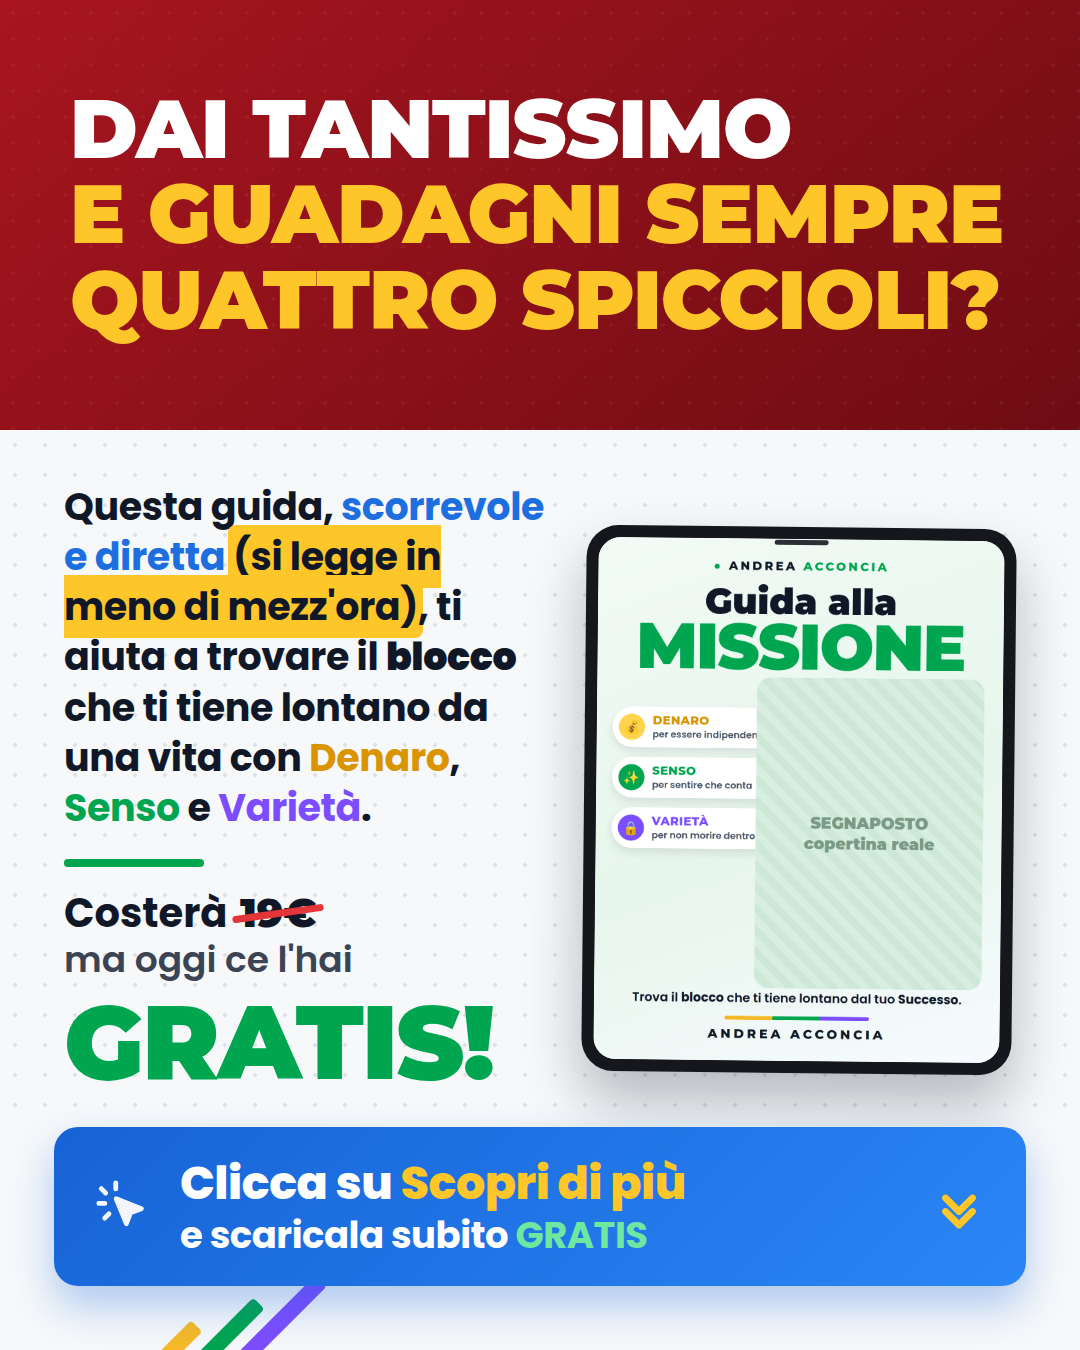
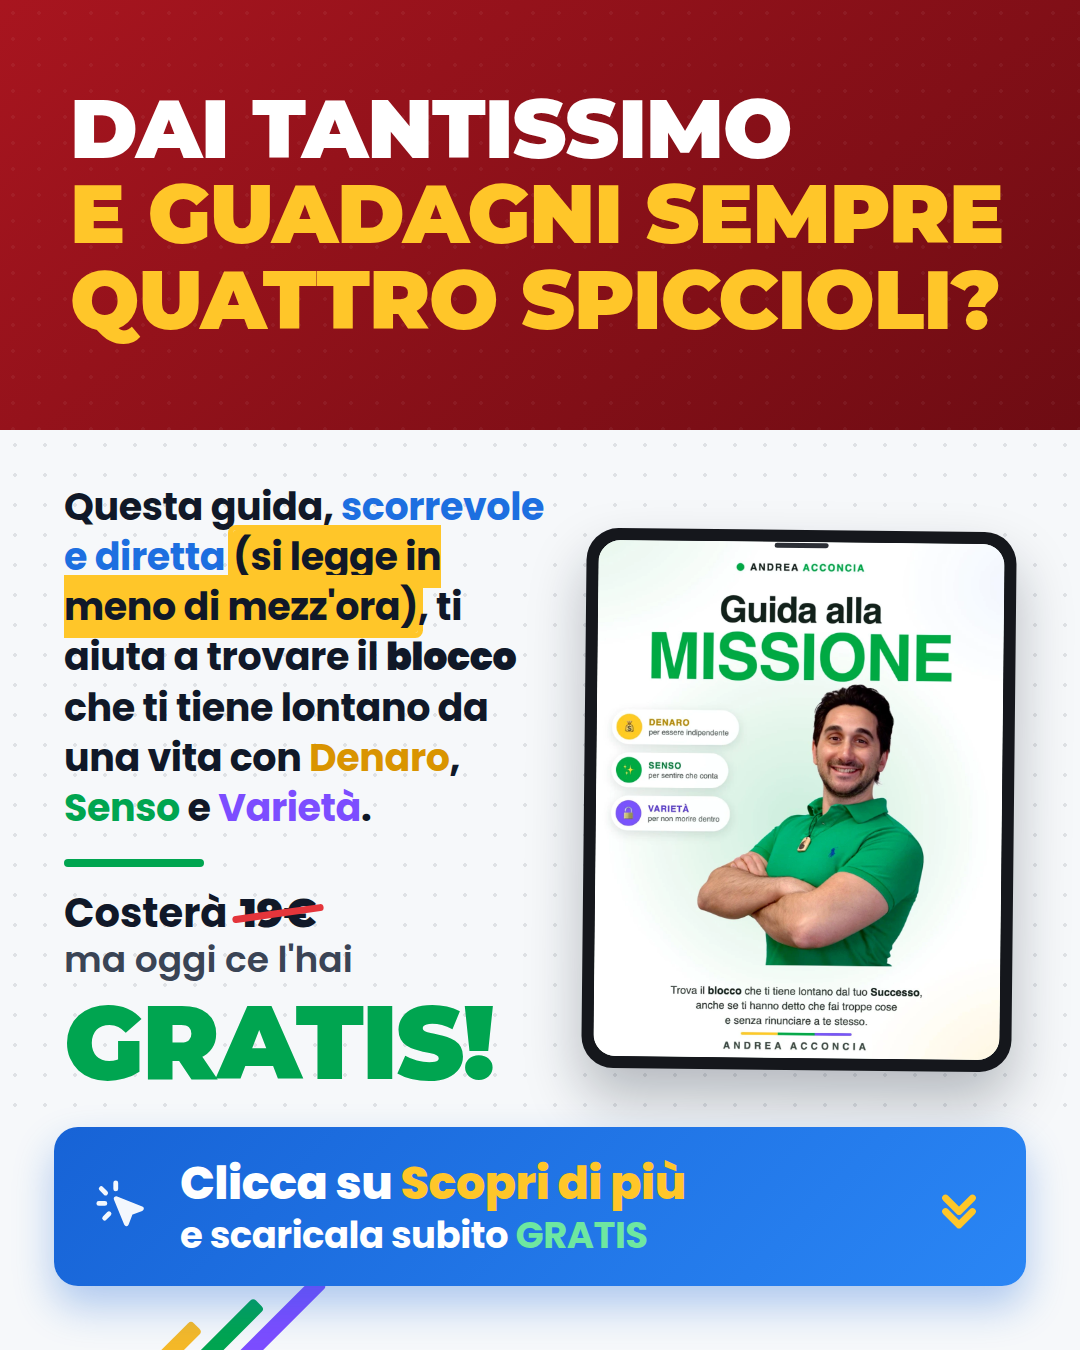
Aggiunta la copertina reale e rigenerati i 15 creativi
- assets/cover-guida-missione.png: screenshot reale della copertina
  (1190x1512), sostituisce il segnaposto nel mockup su tablet
- il frame del tablet passa a 430x540 per rispettare esattamente
  le proporzioni della copertina, senza crop

Claude-Session: https://claude.ai/code/session_016egf769pWHnc4UkpRBaZxo

Changed region(s): [[0.55, 0.3733, 0.9167, 0.8089]]

diff --git a/src/template.js b/src/template.js
@@ -110,7 +110,7 @@ body{font-family:'Poppins',sans-serif;background:${C.paper};overflow:hidden}
   line-height:1;letter-spacing:-2px;margin-top:8px}
 
 .right{width:47%;display:flex;align-items:center;justify-content:center}
-.tablet{position:relative;width:430px;height:546px;background:#15171C;
+.tablet{position:relative;width:430px;height:540px;background:#15171C;
   border-radius:32px;padding:12px;box-shadow:0 30px 56px rgba(16,24,40,.28);transform:rotate(.6deg)}
 .tablet::before{content:'';position:absolute;top:13px;left:50%;transform:translateX(-50%);
   width:54px;height:5px;border-radius:3px;background:#2C2F36;z-index:1}
